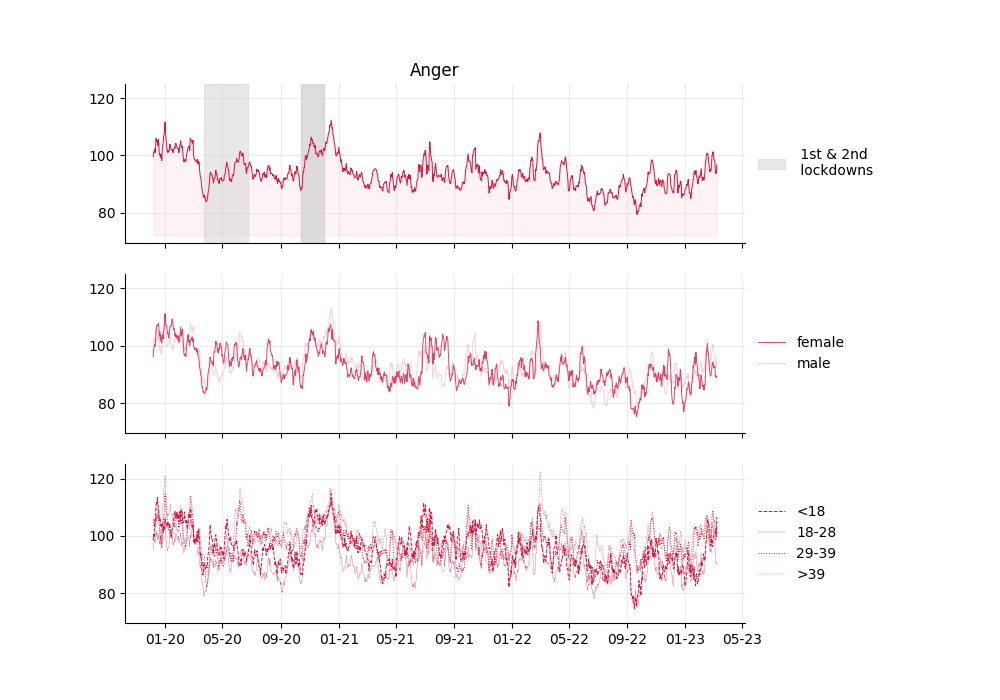
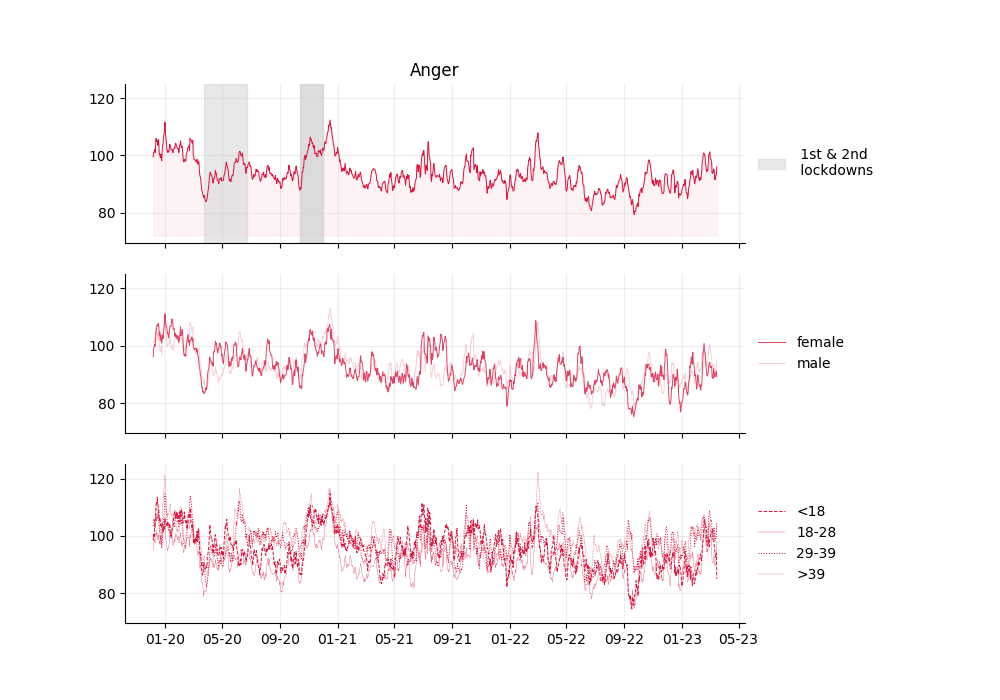
a

diff --git a/uk.html b/uk.html
@@ -39,7 +39,7 @@ body {
 				<tr class="spaceUnder"><td><li><i>Anger, Anxiety</i> and <i>Sadness</i> are constructed from the averaged daily frequency (across users) of words in the tweets that can be matched to the lexical field of anger, anxiety and sadness, respectively.</li></td></tr>
 				<tr class="spaceUnder"><td><li><i>Mental Health</i> is constructed from the averaged daily frequency (across users) of all words that are matched to the lexical field of anger, anxiety and sadness in all tweets.  </li></td></tr>
 				<tr class="spaceUnder"><td><li>Increases in these series are associated with a deterioration of the corresponding indicator.</li></td></tr>
-				<tr class="spaceUnder"><td><li>These indicators are updated weekly. Data span from January 1st 2020 to January 19th 2023.</li></td></tr>
+				<tr class="spaceUnder"><td><li>These indicators are updated weekly. Data span from January 1st 2020 to March 16th 2023.</li></td></tr>
 			</tbody>
 		</table>
 		</center>
